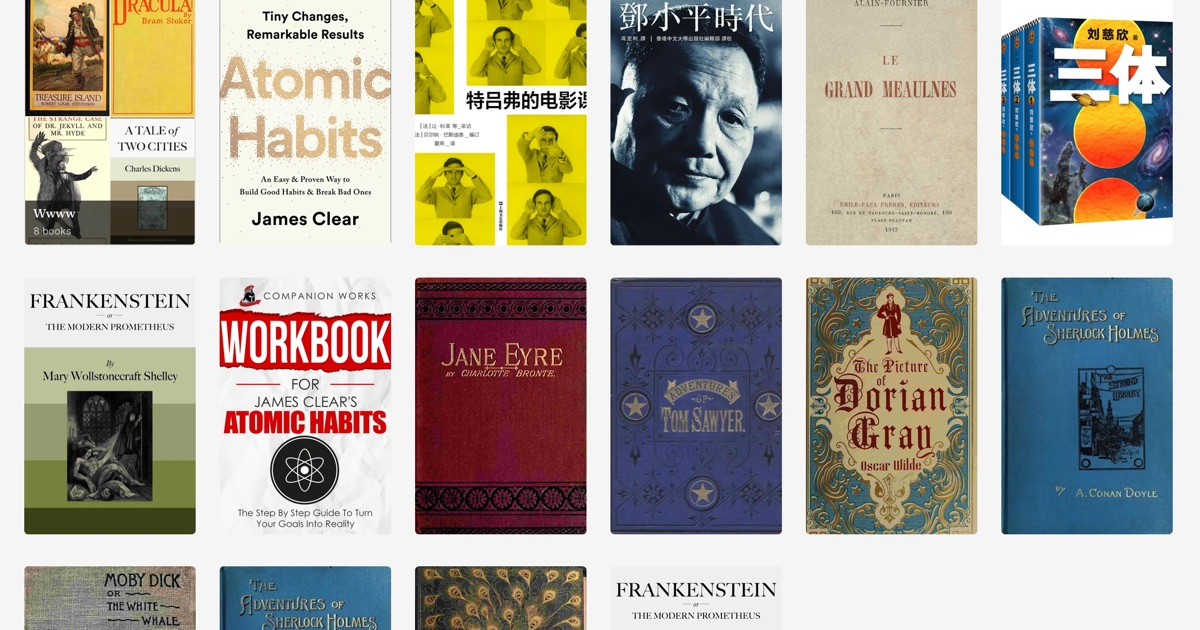
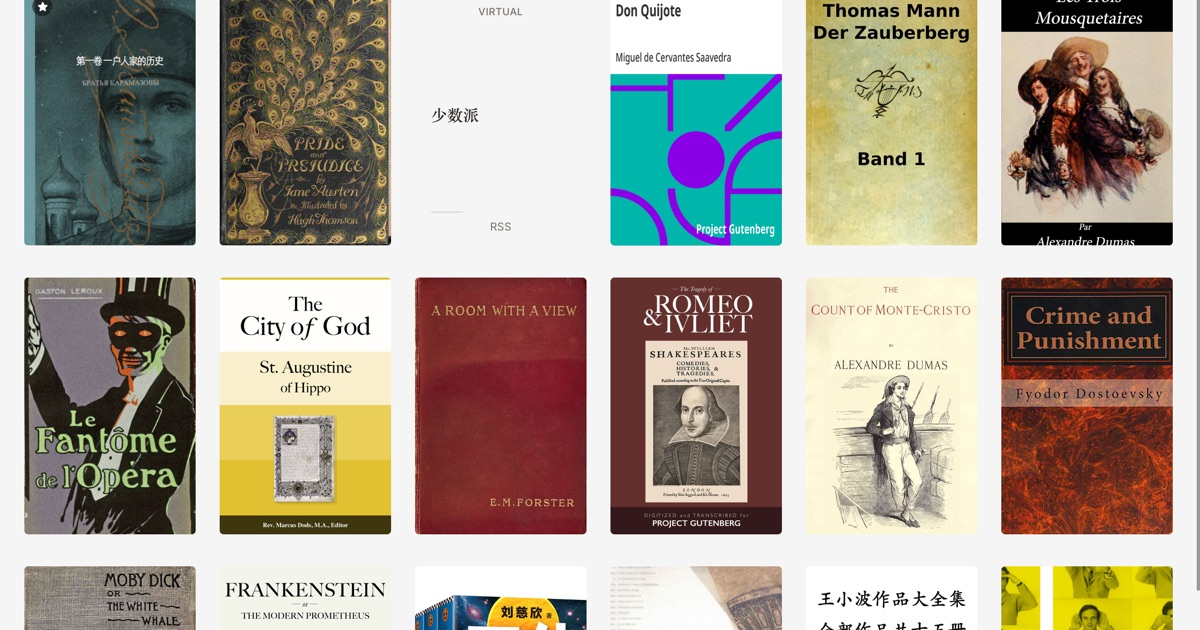
feat(landing): the site learns to read in the dark — and every picture dresses for the occasion
The landing gets its dark page: one media-query block of token overrides
(warm near-black paper, soft warm-white ink, fg-subtle at 5.2:1) that
recolors the whole site — home, docs, blog, changelog — following the
system with no toggle. theme-color splits into a light and a dark meta.

Every plate is now a light/dark pair served through <picture>, staged in
one sitting so the pairs match shot for shot: the shelf with Pride and
Prejudice wearing its Hugh Thomson peacock cover, the reader holding
"It is a truth universally acknowledged" in sentence focus, the
assistant naming the four threads that run through the shelf (a real
conversation, tool trail showing), and the plugin panel — Dictionary,
Editorial Themes, RSS Reader, each sandboxed, the Agent-tools badges
making the "hands the assistant new tools" claim visible. og.jpg is
recut from the new shelf, and the alt/caption copy follows in all
eight locales.

diff --git a/apps/landing/src/lib/home-content.ts b/apps/landing/src/lib/home-content.ts
@@ -24,6 +24,8 @@ export type HomeContent = {
   contextCaption: string;
   pluginTitle: string;
   pluginBody: string;
+  pluginAlt: string;
+  pluginCaption: string;
   syncTitle: string;
   syncBody: string;
   inShortTitle: string;
@@ -57,8 +59,8 @@ export const HOME: Record<Locale, HomeContent> = {
     readerBody:
       "Import a file and start reading. There is no conversion and no cloud upload; your highlights, notes, and place in the book stay with the original text. When you want more focus, read sentence by sentence — the page holds back, a floating strip steps you through, and read-aloud can follow along.",
     readerAlt:
-      "A page of Atomic Habits in the ReadAware reader, one sentence held in focus while the rest of the page recedes.",
-    readerCaption: "Reading Atomic Habits one sentence at a time.",
+      "A page of Pride and Prejudice in the ReadAware reader, one sentence held in focus while the rest of the page recedes.",
+    readerCaption: "Reading Pride and Prejudice one sentence at a time.",
     memoryTitle: "It's aware of what you've read",
     memoryBody:
       "Ask about a passage, a book, or your whole shelf. ReadAware answers from your own reading — the line you marked three books ago, the question you asked last week, the thread that runs through everything on your shelf. It doesn't replay a chat history; it keeps a durable memory of what matters and brings it back at the moment it's relevant.",
@@ -68,6 +70,9 @@ export const HOME: Record<Locale, HomeContent> = {
     pluginTitle: "Extended from the inside",
     pluginBody:
       "Sandboxed plugins from the built-in marketplace add read-aloud voices, dictionaries, reading themes, feeds that read like books. And they reach deeper than features: a plugin can hand the assistant a new tool, and it simply starts using it. The reader doesn't just gain buttons — it learns new skills.",
+    pluginAlt:
+      "The ReadAware plugin panel — dictionary, themes, and RSS reader installed, each in its own sandbox, some handing the assistant new tools.",
+    pluginCaption: "Voices, dictionaries, themes, feeds — and tools the assistant picks up.",
     syncTitle: "Your reading follows you",
     syncBody:
       "Open ReadAware on another machine and everything is already there — your books, your highlights, your place in each of them, and the memory built from all of it. Sync is end-to-end encrypted: the relay only ever stores ciphertext, so nobody in the middle can read what you read. Desktop and Android today; iOS is on the way.",
@@ -117,8 +122,8 @@ export const HOME: Record<Locale, HomeContent> = {
     readerTitle: "安静地读任何书",
     readerBody:
       "导入文件就能开始读。没有格式转换，也没有云端上传；划线、笔记和阅读位置都附着在原文上。想更专注时，可以逐句阅读——页面退后一步，浮动条带你逐句前进，朗读也能跟着走。",
-    readerAlt: "ReadAware 阅读器中的《掌控习惯》，一句话保持聚焦，其余文字退后。",
-    readerCaption: "逐句阅读《掌控习惯》。",
+    readerAlt: "ReadAware 阅读器中的《傲慢与偏见》，一句话保持聚焦，其余文字退后。",
+    readerCaption: "逐句阅读《傲慢与偏见》。",
     memoryTitle: "它知道你读过什么",
     memoryBody:
       "问一段话、一本书，或整个书架。ReadAware 用你自己的阅读来回答——三本书之前你划下的那句话、上周你问过的那个问题、贯穿整个书架的那条线索。它不回放聊天记录，而是把重要的沉淀为持久记忆，在相关的时刻带回来。",
@@ -127,6 +132,9 @@ export const HOME: Record<Locale, HomeContent> = {
     pluginTitle: "从内部生长",
     pluginBody:
       "内置市场里的沙箱插件带来朗读声音、词典、阅读主题、像书一样读的订阅源。而且插件能到得更深：它可以交给智能助理一个新工具，助理拿起来就用。这个阅读器长出的不只是按钮——是新本事。",
+    pluginAlt:
+      "ReadAware 插件面板——词典、主题、RSS 阅读器各自装在沙箱里，有的还给智能助理带来新工具。",
+    pluginCaption: "声音、词典、主题、订阅源——还有交到助理手里的新工具。",
     syncTitle: "你的阅读跟着你走",
     syncBody:
       "在另一台机器上打开 ReadAware，一切已经就位——你的书、划线、每本书读到的位置，以及由此长出的记忆。同步是端到端加密的：中继服务器只存密文，路上没有任何人能看到你读了什么。桌面和 Android 现已可用；iOS 在路上。",
@@ -176,8 +184,8 @@ export const HOME: Record<Locale, HomeContent> = {
     readerBody:
       "ファイルを取り込めばすぐ読み始められます。変換もクラウドへのアップロードもなく、ハイライトやメモ、読書位置は原文に付いたまま。集中したいときは一文ずつ——ページは一歩引き、フローティングバーが文を進め、読み上げも並走します。",
     readerAlt:
-      "ReadAwareのリーダーで開いた『Atomic Habits』。一文に焦点が当たり、残りの文章は後ろに引く。",
-    readerCaption: "『Atomic Habits』を一文ずつ読む。",
+      "ReadAwareのリーダーで開いた『高慢と偏見』。一文に焦点が当たり、残りの文章は後ろに引く。",
+    readerCaption: "『高慢と偏見』を一文ずつ読む。",
     memoryTitle: "読んだことを、知っている",
     memoryBody:
       "一節でも、一冊でも、棚全体でも聞いてください。ReadAwareはあなた自身の読書から答えます——三冊前に引いたあの一行、先週の問い、棚全体を貫く一本の糸。チャット履歴を再生するのではなく、大事なことを持続する記憶として保ち、関係する瞬間に持ち戻します。",
@@ -187,6 +195,9 @@ export const HOME: Record<Locale, HomeContent> = {
     pluginTitle: "内側から広がる",
     pluginBody:
       "内蔵マーケットプレイスのサンドボックス化されたプラグインが、読み上げボイス・辞書・読書テーマ・本のように読めるフィードを加えます。しかもプラグインはもっと深くまで届きます。アシスタントに新しいツールを手渡せば、アシスタントはすぐに使い始める——このリーダーが増やすのはボタンではなく、できることそのものです。",
+    pluginAlt:
+      "ReadAwareのプラグインパネル——辞書・テーマ・RSSリーダーがそれぞれサンドボックスで動き、アシスタントに新しいツールを渡すものもある。",
+    pluginCaption: "ボイス・辞書・テーマ・フィード——そしてアシスタントの手に渡るツール。",
     syncTitle: "あなたの読書は、ついてくる",
     syncBody:
       "別のマシンでReadAwareを開けば、すべてがもうそこにあります——本、ハイライト、それぞれの読みかけの位置、そこから育った記憶まで。同期はエンドツーエンドで暗号化され、中継サーバーには暗号文しか置かれません。途中の誰にも、あなたが何を読んでいるかは見えません。デスクトップとAndroidは今日から、iOSはまもなく。",
@@ -234,14 +245,16 @@ export const HOME: Record<Locale, HomeContent> = {
     "shelfCaption": "你的書架——所有格式，一個地方。",
     "readerTitle": "一個平靜的地方，讀任何東西",
     "readerBody": "匯入檔案就開始讀。不需要轉檔，也不會上傳到雲端；你的劃線、筆記和閱讀進度都留在原始文字裡。想更專注時，可以逐句閱讀——頁面退到一旁，一個浮動列帶你一步步前進，朗讀也可以跟隨。",
-    "readerAlt": "ReadAware 閱讀器中的《原子習慣》頁面，一個句子被聚焦，頁面其餘部分退到背景。",
-    "readerCaption": "逐句閱讀《原子習慣》。",
+    "readerAlt": "ReadAware 閱讀器中的《傲慢與偏見》頁面，一個句子被聚焦，頁面其餘部分退到背景。",
+    "readerCaption": "逐句閱讀《傲慢與偏見》。",
     "memoryTitle": "它知道你讀過什麼",
     "memoryBody": "問一段文字、一本書，或整個書架。ReadAware 用你自己的閱讀來回答——三本書之前你劃下的那句話、上週你問過的那個問題、貫穿整個書架的那條線索。它不重播聊天紀錄，而是把重要的沉澱為持久記憶，在相關的時刻帶回來。",
     "contextAlt": "ReadAware 智慧助理檢視讀者的書架和最近的閱讀，並指出貫穿其中的脈絡。",
     "contextCaption": "智慧助理，從你自己的書架上回答。",
     "pluginTitle": "從內部生長",
     "pluginBody": "內建市場的沙盒外掛帶來朗讀語音、字典、閱讀主題、像書一樣讀的訂閱源。而且外掛能走得更深：它可以交給智慧助理一個新工具，助理拿起來就用。這個閱讀器長出的不只是按鈕——是新本事。",
+    "pluginAlt": "ReadAware 外掛面板——字典、主題、RSS 閱讀器各自裝在沙盒裡，有的還給智慧助理帶來新工具。",
+    "pluginCaption": "語音、字典、主題、訂閱源——還有交到助理手裡的新工具。",
     "syncTitle": "你的閱讀跟著你走",
     "syncBody": "在另一台機器上打開 ReadAware，一切已經就位——你的書、劃線、每本書讀到的位置，以及由此長出的記憶。同步是端對端加密的：中繼伺服器只存密文，路上沒有任何人能看到你讀了什麼。桌面與 Android 現已可用；iOS 即將到來。",
     "inShortTitle": "簡單來說",
@@ -286,14 +299,16 @@ export const HOME: Record<Locale, HomeContent> = {
     "shelfCaption": "Votre bibliothèque — tous les formats au même endroit.",
     "readerTitle": "Un endroit calme pour lire n'importe quoi",
     "readerBody": "Importez un fichier et commencez à lire. Pas de conversion ni d'envoi dans le cloud ; vos surlignages, notes et position dans le livre restent avec le texte original. Pour plus de concentration, lisez phrase par phrase — la page s'efface, une bande flottante vous guide, et la lecture à voix haute peut suivre.",
-    "readerAlt": "Une page d'Atomic Habits dans le lecteur ReadAware, une phrase en focus pendant que le reste de la page s'efface.",
-    "readerCaption": "Lire Atomic Habits une phrase à la fois.",
+    "readerAlt": "Une page d'Orgueil et Préjugés dans le lecteur ReadAware, une phrase en focus pendant que le reste de la page s'efface.",
+    "readerCaption": "Lire Orgueil et Préjugés une phrase à la fois.",
     "memoryTitle": "Il sait ce que vous avez lu",
     "memoryBody": "Interrogez un passage, un livre ou toute votre bibliothèque. ReadAware répond à partir de votre propre lecture — la ligne marquée trois livres plus tôt, la question posée la semaine dernière, le fil qui traverse toute votre étagère. Il ne rejoue pas un historique de discussion : il garde une mémoire durable de ce qui compte et la fait revenir au moment où c'est pertinent.",
     "contextAlt": "L'assistant ReadAware qui examine la bibliothèque et les lectures récentes du lecteur, et nomme le fil qui les traverse.",
     "contextCaption": "L'assistant, répondant à partir de votre propre bibliothèque.",
     "pluginTitle": "Étendu de l'intérieur",
     "pluginBody": "Les plugins sandboxés du marketplace intégré ajoutent des voix de lecture, des dictionnaires, des thèmes, des flux qui se lisent comme des livres. Et ils vont plus loin que les fonctionnalités : un plugin peut confier un nouvel outil à l'assistant, qui se met simplement à l'utiliser. Le lecteur ne gagne pas des boutons — il apprend de nouveaux savoir-faire.",
+    "pluginAlt": "Le panneau de plugins de ReadAware — dictionnaire, thèmes et lecteur RSS, chacun dans son bac à sable, certains confiant de nouveaux outils à l'assistant.",
+    "pluginCaption": "Voix, dictionnaires, thèmes, flux — et des outils que l'assistant adopte.",
     "syncTitle": "Votre lecture vous suit",
     "syncBody": "Ouvrez ReadAware sur une autre machine et tout est déjà là — vos livres, vos surlignages, votre position dans chacun d'eux, et la mémoire construite à partir de tout cela. La synchronisation est chiffrée de bout en bout : le relais ne stocke que du chiffré, personne en chemin ne peut lire ce que vous lisez. Bureau et Android aujourd'hui ; iOS arrive.",
     "inShortTitle": "En bref",
@@ -338,14 +353,16 @@ export const HOME: Record<Locale, HomeContent> = {
     "shelfCaption": "Deine Bibliothek — alle Formate an einem Ort.",
     "readerTitle": "Ein ruhiger Ort, um alles zu lesen",
     "readerBody": "Importiere eine Datei und lies los. Es gibt keine Konvertierung und keinen Cloud-Upload; deine Markierungen, Notizen und dein Lesezeichen bleiben beim Originaltext. Wenn du dich besser konzentrieren willst, lies Satz für Satz — die Seite tritt zurück, ein schwebender Streifen führt dich durch, und das Vorlesen kann folgen.",
-    "readerAlt": "Eine Seite von „Atomic Habits“ im ReadAware-Reader, ein Satz im Fokus, während der Rest der Seite zurücktritt.",
-    "readerCaption": "„Atomic Habits“ Satz für Satz lesen.",
+    "readerAlt": "Eine Seite von „Stolz und Vorurteil“ im ReadAware-Reader, ein Satz im Fokus, während der Rest der Seite zurücktritt.",
+    "readerCaption": "„Stolz und Vorurteil“ Satz für Satz lesen.",
     "memoryTitle": "Es weiß, was du gelesen hast",
     "memoryBody": "Frag nach einer Passage, einem Buch oder deinem ganzen Regal. ReadAware antwortet aus deiner eigenen Lektüre — die Zeile, die du vor drei Büchern markiert hast, die Frage von letzter Woche, der Faden, der sich durch dein ganzes Regal zieht. Es spielt keine Chat-Historie ab; es behält eine dauerhafte Erinnerung an das Wichtige und bringt sie genau dann zurück, wenn sie relevant ist.",
     "contextAlt": "Der ReadAware-Assistent, der das Regal und die letzten Lesefortschritte des Lesers betrachtet und den roten Faden benennt.",
     "contextCaption": "Der Assistent, der aus deinem eigenen Regal antwortet.",
     "pluginTitle": "Von innen erweitert",
     "pluginBody": "Sandbox-Plugins aus dem eingebauten Marktplatz bringen Vorlesestimmen, Wörterbücher, Lesethemen, Feeds, die sich wie Bücher lesen. Und sie reichen tiefer als Features: Ein Plugin kann dem Assistenten ein neues Werkzeug in die Hand geben — und er benutzt es einfach. Der Reader bekommt nicht bloß Knöpfe dazu, er lernt Neues.",
+    "pluginAlt": "Das Plugin-Panel von ReadAware — Wörterbuch, Themes und RSS-Reader, jedes in seiner Sandbox, manche geben dem Assistenten neue Werkzeuge.",
+    "pluginCaption": "Stimmen, Wörterbücher, Themes, Feeds — und Werkzeuge für den Assistenten.",
     "syncTitle": "Dein Lesen folgt dir",
     "syncBody": "Öffne ReadAware auf einer anderen Maschine, und alles ist schon da — deine Bücher, deine Markierungen, deine Stelle in jedem von ihnen und die daraus gewachsene Erinnerung. Die Synchronisierung ist Ende-zu-Ende-verschlüsselt: Das Relay speichert ausschließlich Chiffretext, niemand dazwischen kann lesen, was du liest. Desktop und Android heute; iOS ist unterwegs.",
     "inShortTitle": "Kurz gesagt",
@@ -390,14 +407,16 @@ export const HOME: Record<Locale, HomeContent> = {
     "shelfCaption": "Ваша библиотека — все форматы в одном месте.",
     "readerTitle": "Спокойное место для чтения чего угодно",
     "readerBody": "Импортируйте файл и начинайте читать. Никакой конвертации и загрузки в облако; ваши выделения, заметки и место в книге остаются с исходным текстом. Когда захочется больше сосредоточенности, читайте по предложениям — страница отступает на второй план, плавающая полоса ведёт вас дальше, а чтение вслух может следовать за ней.",
-    "readerAlt": "Страница «Атомные привычки» в ридере ReadAware: одно предложение в фокусе, остальная страница отступает.",
-    "readerCaption": "Чтение «Атомных привычек» по одному предложению за раз.",
+    "readerAlt": "Страница «Гордости и предубеждения» в ридере ReadAware: одно предложение в фокусе, остальная страница отступает.",
+    "readerCaption": "Чтение «Гордости и предубеждения» по одному предложению за раз.",
     "memoryTitle": "Он знает, что вы читали",
     "memoryBody": "Спросите о фрагменте, книге или всей полке. ReadAware отвечает из вашего собственного чтения — строка, отмеченная три книги назад, вопрос прошлой недели, нить, проходящая через всю полку. Он не проигрывает историю чата: он хранит устойчивую память о важном и возвращает её именно в тот момент, когда она уместна.",
     "contextAlt": "Ассистент ReadAware обозревает полку читателя и недавнее чтение, называя нить, которая их связывает.",
     "contextCaption": "Ассистент отвечает, используя вашу собственную полку.",
     "pluginTitle": "Расширение изнутри",
     "pluginBody": "Песочные плагины из встроенного каталога добавляют голоса для чтения вслух, словари, темы оформления, ленты, читаемые как книги. И они идут глубже функций: плагин может вручить ассистенту новый инструмент — и тот просто начинает им пользоваться. Ридер получает не кнопки, а новые умения.",
+    "pluginAlt": "Панель плагинов ReadAware — словарь, темы и RSS-ридер, каждый в своей песочнице; некоторые вручают ассистенту новые инструменты.",
+    "pluginCaption": "Голоса, словари, темы, ленты — и инструменты для ассистента.",
     "syncTitle": "Ваше чтение следует за вами",
     "syncBody": "Откройте ReadAware на другой машине — и всё уже на месте: книги, выделения, позиция в каждой из них и память, выросшая из всего этого. Синхронизация зашифрована сквозным образом: ретранслятор хранит только шифротекст, и никто по пути не может прочитать, что вы читаете. Настольные системы и Android — уже сегодня; iOS на подходе.",
     "inShortTitle": "Короче говоря",
@@ -442,14 +461,16 @@ export const HOME: Record<Locale, HomeContent> = {
     "shelfCaption": "Tu biblioteca: todos los formatos en un solo lugar.",
     "readerTitle": "Un lugar tranquilo para leer cualquier cosa",
     "readerBody": "Importa un archivo y empieza a leer. No hay conversión ni carga en la nube; tus subrayados, notas y tu posición en el libro permanecen con el texto original. Cuando quieras más concentración, lee frase a frase: la página se retira, una franja flotante te guía y la lectura en voz alta puede seguir el ritmo.",
-    "readerAlt": "Una página de Atomic Habits en el lector de ReadAware, con una frase en foco mientras el resto de la página se atenúa.",
-    "readerCaption": "Leyendo Atomic Habits frase a frase.",
+    "readerAlt": "Una página de Orgullo y prejuicio en el lector de ReadAware, con una frase en foco mientras el resto de la página se atenúa.",
+    "readerCaption": "Leyendo Orgullo y prejuicio frase a frase.",
     "memoryTitle": "Sabe lo que has leído",
     "memoryBody": "Pregunta por un pasaje, un libro o toda tu estantería. ReadAware responde desde tu propia lectura: la línea que marcaste hace tres libros, la pregunta de la semana pasada, el hilo que atraviesa toda tu estantería. No reproduce un historial de chat; guarda una memoria duradera de lo que importa y la trae de vuelta justo cuando es relevante.",
     "contextAlt": "El asistente de ReadAware revisando la estantería del lector y sus lecturas recientes, y nombrando el hilo que las une.",
     "contextCaption": "El asistente, respondiendo desde tu propia estantería.",
     "pluginTitle": "Extendido desde adentro",
     "pluginBody": "Los plugins en sandbox del marketplace integrado añaden voces de lectura, diccionarios, temas, fuentes que se leen como libros. Y llegan más hondo que las funciones: un plugin puede poner una nueva herramienta en manos del asistente, y este simplemente empieza a usarla. El lector no gana botones: aprende nuevas habilidades.",
+    "pluginAlt": "El panel de plugins de ReadAware: diccionario, temas y lector RSS, cada uno en su sandbox; algunos ponen nuevas herramientas en manos del asistente.",
+    "pluginCaption": "Voces, diccionarios, temas, fuentes — y herramientas que el asistente adopta.",
     "syncTitle": "Tu lectura te sigue",
     "syncBody": "Abre ReadAware en otra máquina y todo está ya ahí: tus libros, tus subrayados, tu posición en cada uno y la memoria construida a partir de todo ello. La sincronización está cifrada de extremo a extremo: el relay solo guarda texto cifrado, y nadie en el camino puede leer lo que lees. Escritorio y Android hoy; iOS está en camino.",
     "inShortTitle": "En resumen",

diff --git a/apps/landing/src/components/HomePage.tsx b/apps/landing/src/components/HomePage.tsx
@@ -9,7 +9,7 @@ import { HOME } from "../lib/home-content";
 import { LOCALES, LOCALE_CHOICE_KEY, type Locale } from "../lib/i18n";
 
 // Cache-buster for the retaken screenshot set (bump when replacing the files).
-const SHOT_VERSION = "?v=041";
+const SHOT_VERSION = "?v=043";
 
 /**
  * First visit to `/`: follow the browser language to /zh or /ja. An explicit
@@ -58,27 +58,36 @@ function detectBrowserLocale(): Exclude<Locale, "en"> | null {
 
 // A screenshot printed as a plate: a hairline frame does the separating, and a
 // plain caption says what it is. No shadow, no border-radius, no figure number.
+// Every shot exists in a light and a dark take (`<base>-light.webp` /
+// `<base>-dark.webp`); the <picture> serves whichever matches the visitor's
+// color scheme, so the app in the pictures always wears the page's palette.
 function Plate({
-  src,
+  base,
   alt,
   caption,
   eager = false,
 }: {
-  src: string;
+  base: string;
   alt: string;
   caption: string;
   eager?: boolean;
 }) {
   return (
     <figure className="m-0">
-      <img
-        src={src}
-        alt={alt}
-        width={2400}
-        height={1600}
-        loading={eager ? "eager" : "lazy"}
-        className="block w-full border border-border-strong"
-      />
+      <picture>
+        <source
+          media="(prefers-color-scheme: dark)"
+          srcSet={`/screenshots/${base}-dark.webp${SHOT_VERSION}`}
+        />
+        <img
+          src={`/screenshots/${base}-light.webp${SHOT_VERSION}`}
+          alt={alt}
+          width={2400}
+          height={1600}
+          loading={eager ? "eager" : "lazy"}
+          className="block w-full border border-border-strong"
+        />
+      </picture>
       <figcaption className="mt-3 text-[0.9375rem] italic leading-normal text-fg-muted">
         {caption}
       </figcaption>
@@ -121,7 +130,7 @@ export function HomePage({ locale }: { locale: Locale }) {
           {/* Plate: the shelf */}
           <div className="mt-14 sm:mt-16">
             <Plate
-              src={`/screenshots/shelf.webp${SHOT_VERSION}`}
+              base="shelf"
               alt={content.shelfAlt}
               caption={content.shelfCaption}
               eager
@@ -139,7 +148,7 @@ export function HomePage({ locale }: { locale: Locale }) {
           </section>
           <div className="mt-10">
             <Plate
-              src={`/screenshots/reader.webp${SHOT_VERSION}`}
+              base="reader"
               alt={content.readerAlt}
               caption={content.readerCaption}
             />
@@ -156,7 +165,7 @@ export function HomePage({ locale }: { locale: Locale }) {
           </section>
           <div className="mt-10">
             <Plate
-              src={`/screenshots/context.webp${SHOT_VERSION}`}
+              base="context"
               alt={content.contextAlt}
               caption={content.contextCaption}
             />
@@ -171,6 +180,13 @@ export function HomePage({ locale }: { locale: Locale }) {
               {content.pluginBody}
             </p>
           </section>
+          <div className="mt-10">
+            <Plate
+              base="plugins"
+              alt={content.pluginAlt}
+              caption={content.pluginCaption}
+            />
+          </div>
 
           {/* The sync */}
           <section className="mt-20 max-w-[36rem] sm:mt-24">

diff --git a/apps/landing/src/index.css b/apps/landing/src/index.css
@@ -43,10 +43,36 @@
   text-rendering: optimizeLegibility;
   -webkit-font-smoothing: antialiased;
   -moz-osx-font-smoothing: grayscale;
+
+  --selection: rgb(38 36 32 / 0.12);
+}
+
+/* The dark page: the same ink-on-paper voice with the values swapped — warm
+   near-black paper, soft warm-white ink. Follows the system; there is no
+   toggle. Every color in the site flows through these tokens, so this block
+   is the whole theme. fg-subtle keeps ≥4.5:1 on paper and stays below
+   fg-muted so the three-step hierarchy still reads. */
+@media (prefers-color-scheme: dark) {
+  :root {
+    color-scheme: dark;
+
+    --color-paper: #201d1a;
+    --color-border: rgb(236 233 228 / 0.14);
+    --color-border-strong: #3d3934;
+    --color-fg: #ece9e4;
+    --color-fg-muted: #aaa49c;
+    --color-fg-subtle: #948e84;
+    --color-inverse-fg: #201d1a;
+    --color-surface: #282420;
+    --color-fill: #2c2823;
+    --color-fill-strong: #3a352f;
+
+    --selection: rgb(236 233 228 / 0.2);
+  }
 }
 
 ::selection {
-  background-color: rgb(38 36 32 / 0.12);
+  background-color: var(--selection);
 }
 
 *,

diff --git a/apps/landing/index.html b/apps/landing/index.html
@@ -6,7 +6,8 @@
     <link rel="icon" href="/favicon.ico" sizes="48x48" />
     <link rel="icon" type="image/png" href="/favicon.png" sizes="256x256" />
     <link rel="apple-touch-icon" href="/apple-touch-icon.png" />
-    <meta name="theme-color" content="#f5f5f4" />
+    <meta name="theme-color" content="#f5f5f4" media="(prefers-color-scheme: light)" />
+    <meta name="theme-color" content="#201d1a" media="(prefers-color-scheme: dark)" />
     <title>ReadAware — A reader aware of you</title>
     <meta
       name="description"
